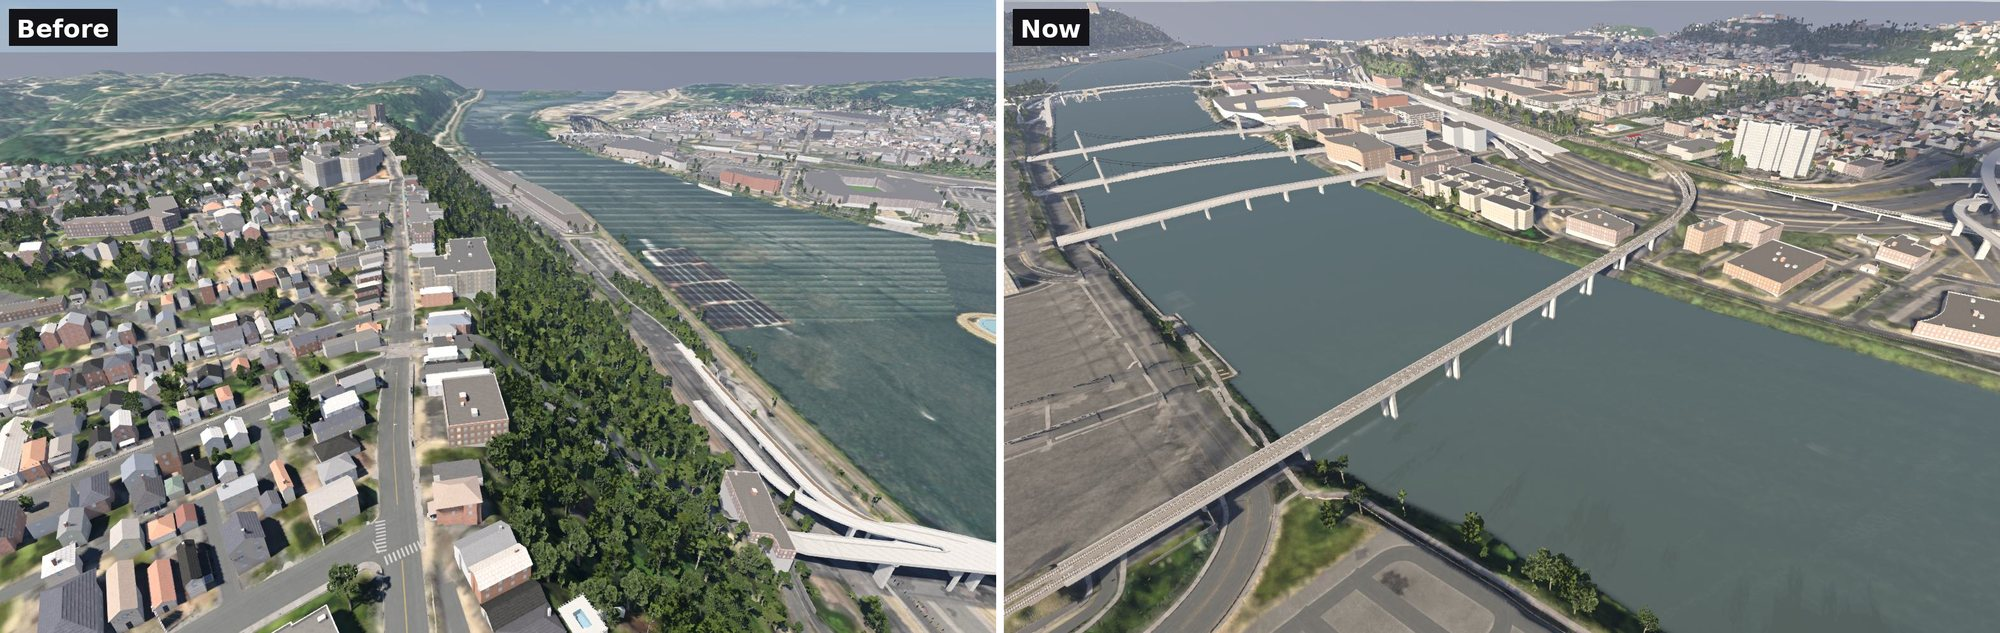
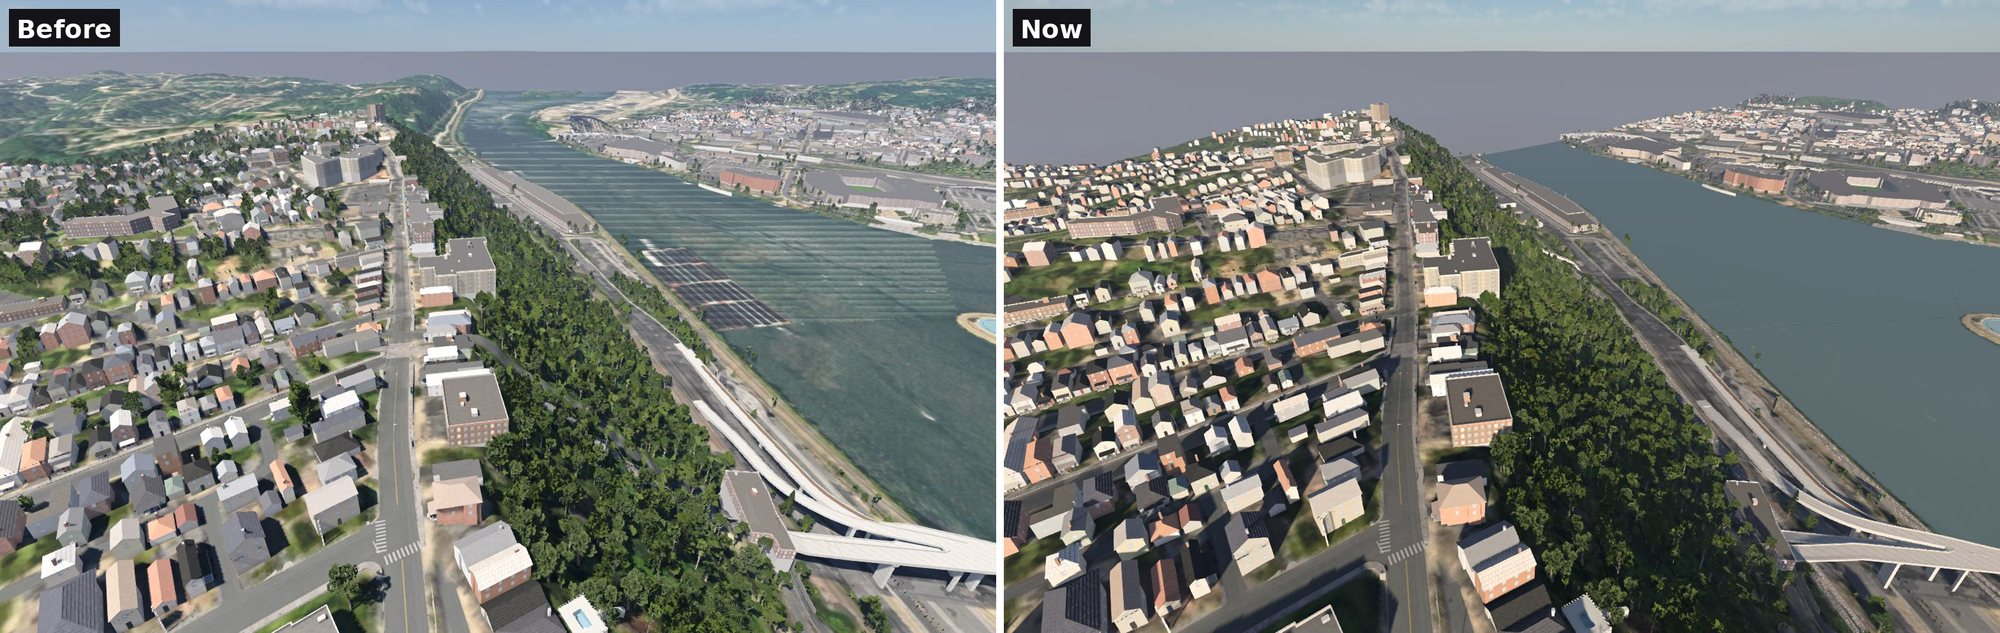
0.2.13 update page: before/after pairs retaken from the same camera spots (river, one arch, double-deck heights)
Claude-Session: https://claude.ai/code/session_01A32U8yuQqH6rTBcwk1Nx6s

diff --git a/public/updates/0.2.13/index.html b/public/updates/0.2.13/index.html
@@ -269,12 +269,13 @@
 
     <h3>Rivers that look like rivers</h3>
     <p>With terrain edits off, wide rivers flickered in stripes: the survey's flat water surface sat exactly at the water's height. The bed is now cut just under it. Rivers also stepped where two met; water pieces that touch are now one pool at one level.</p>
-    <figure><img src="images/river-before-after.jpg" alt="Before: the Monongahela from the air with pale stripes across it. Now: the Allegheny as one even water surface" loading="lazy"><figcaption>Before: stripes across the Monongahela. Now: the Allegheny on the same level after the fix, one even surface.</figcaption></figure>
+    <figure><img src="images/river-before-after.jpg" alt="The Monongahela below Mount Washington from the air, before and now: before, pale stripes across the water; now, one even water surface" loading="lazy"><figcaption>The Monongahela from the same spot. Before: stripes across the river. Now: one even surface.</figcaption></figure>
 
     <h3>Double-deck bridges, and one arch per crossing</h3>
     <p>With measured bridge heights on, a double-deck bridge confused the survey: the top deck hides the lower one. MapNG now reads the densest surface as the top deck and looks under it for the hidden one. A bridge drawn as several parallel ways in OpenStreetMap also gets <b>one</b> arch or truss across all of them, not one each crossing through the others.</p>
-    <figure><img src="images/double-deck.jpg" alt="The Fort Duquesne Bridge in BeamNG: a double-deck tied-arch bridge, one arch each side, hangers down to the decks" loading="lazy"><figcaption>The Fort Duquesne Bridge: two decks at their surveyed heights, one pair of arches.</figcaption></figure>
-    <figure><img src="images/double-deck-before-after.jpg" alt="Side view before and now: before, a single deck line under the arch; now, the lower deck visible under the upper one" loading="lazy"><figcaption>From the side: before, the lower deck sat up in the upper one; now both are there.</figcaption></figure>
+    <figure><img src="images/arch-before-after.jpg" alt="The Fort Duquesne Bridge from the air, before and now: before, two steel arches crossing through each other over a deck that stands too high; now, one pair of arches over the bridge" loading="lazy"><figcaption>The Fort Duquesne Bridge. Before: an arch for each mapped way, crossing through each other. Now: one.</figcaption></figure>
+    <figure><img src="images/double-deck-before-after.jpg" alt="The same bridge from the side, before and now: before, the decks far too high above the water; now, both decks lower, at their surveyed heights" loading="lazy"><figcaption>From the side. Before: the decks stood at 40 m and 24 m. Now: 25 m and 18 m, as surveyed.</figcaption></figure>
+    <figure><img src="images/double-deck.jpg" alt="The Fort Duquesne Bridge in BeamNG from its north end: a double-deck tied-arch bridge, hangers down to the decks" loading="lazy"><figcaption>Up close: both decks, and hangers that reach the lower one.</figcaption></figure>
   </section>
 
   <section id="more">
